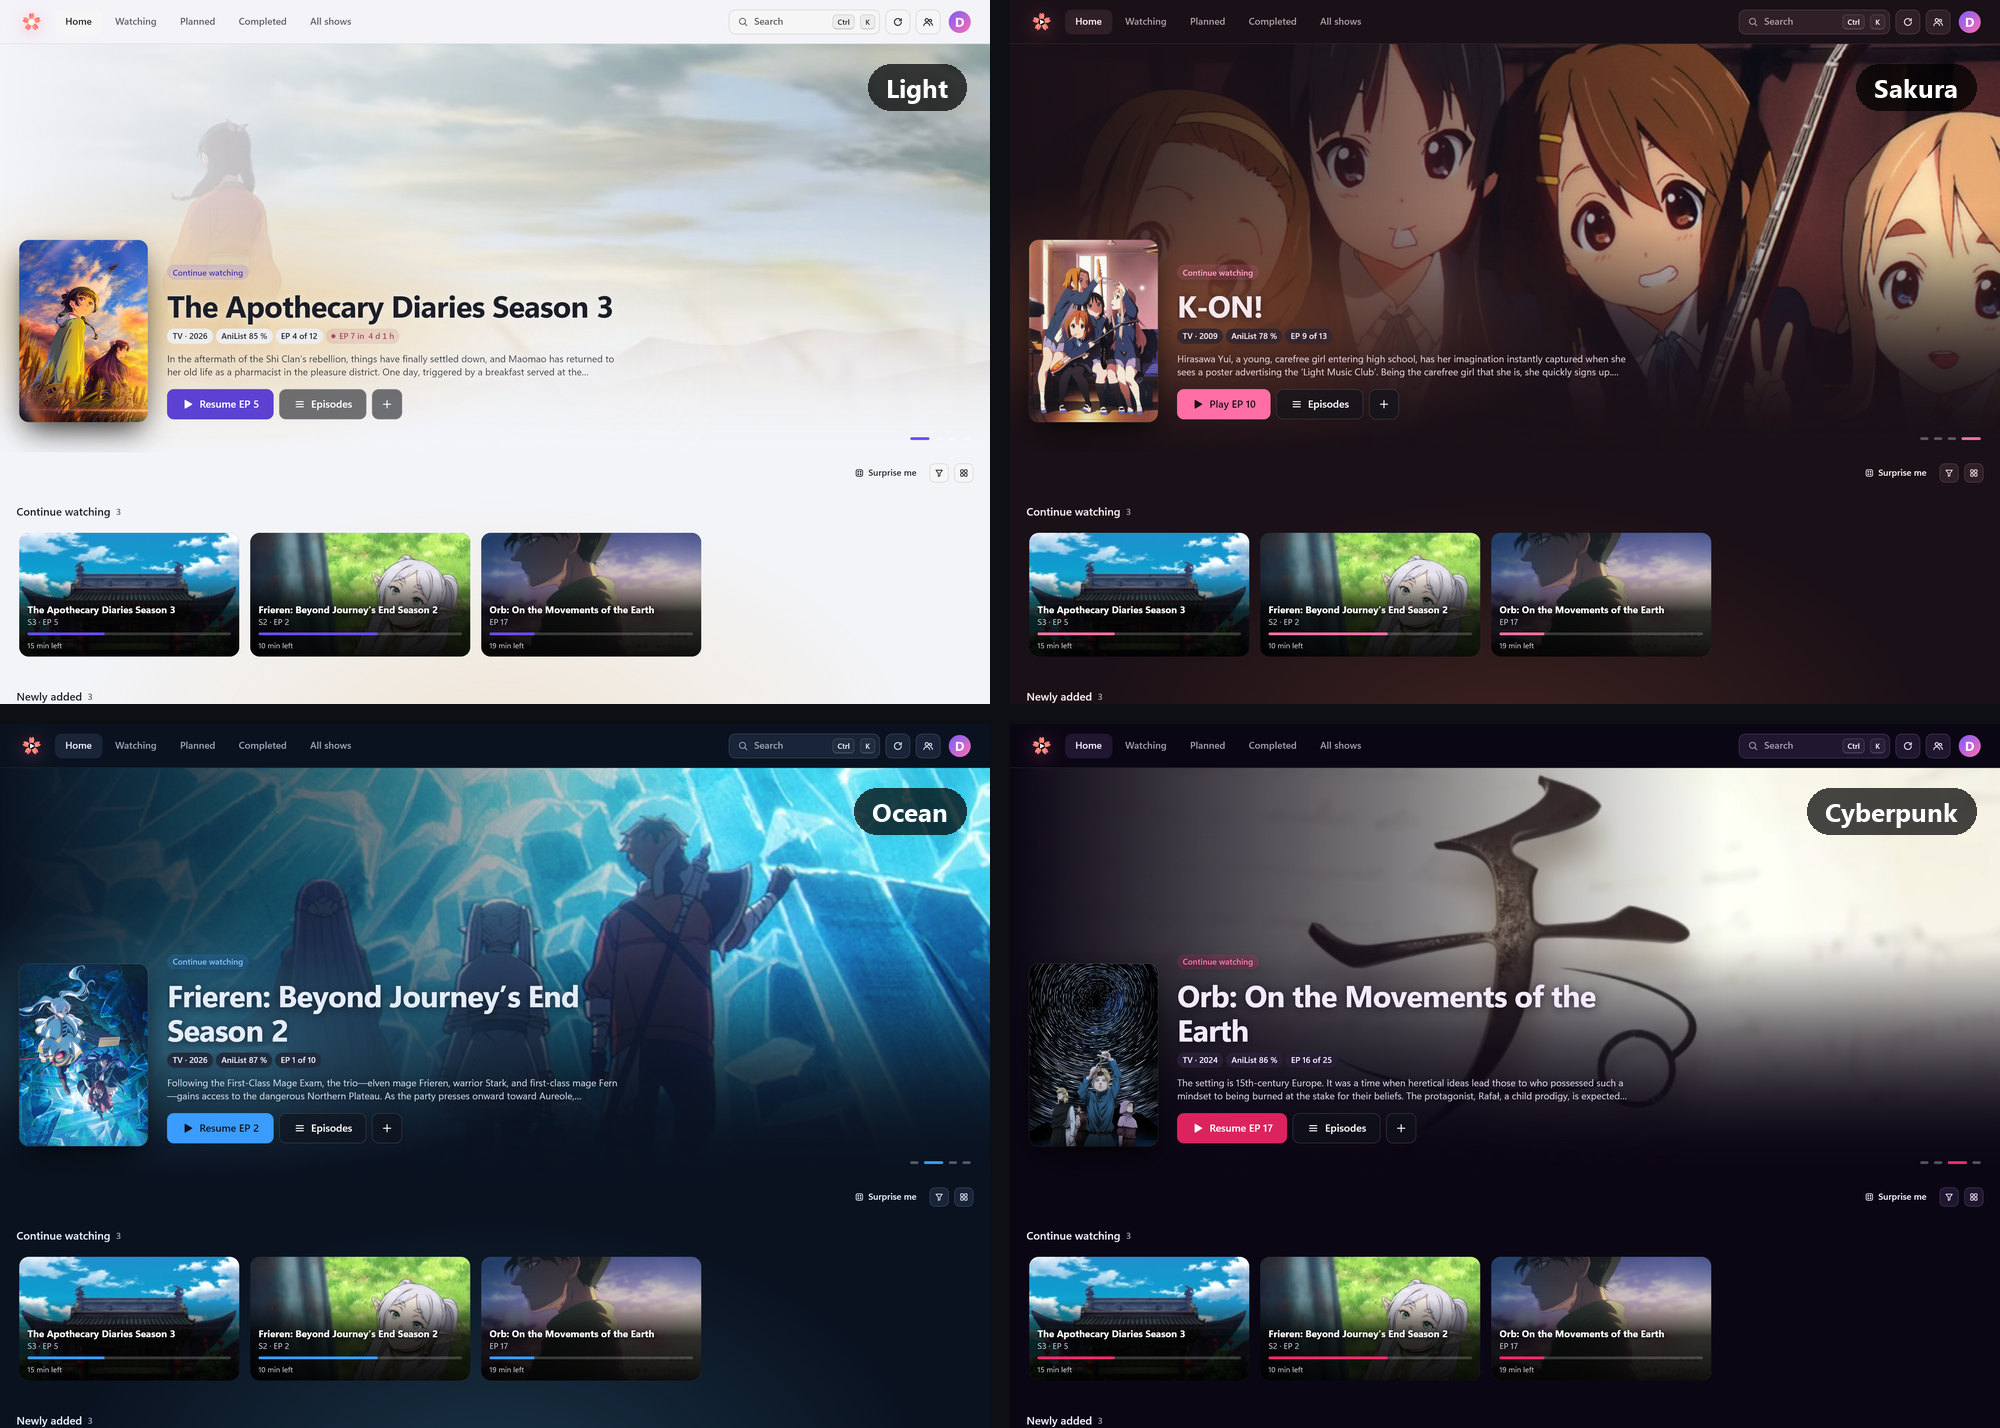
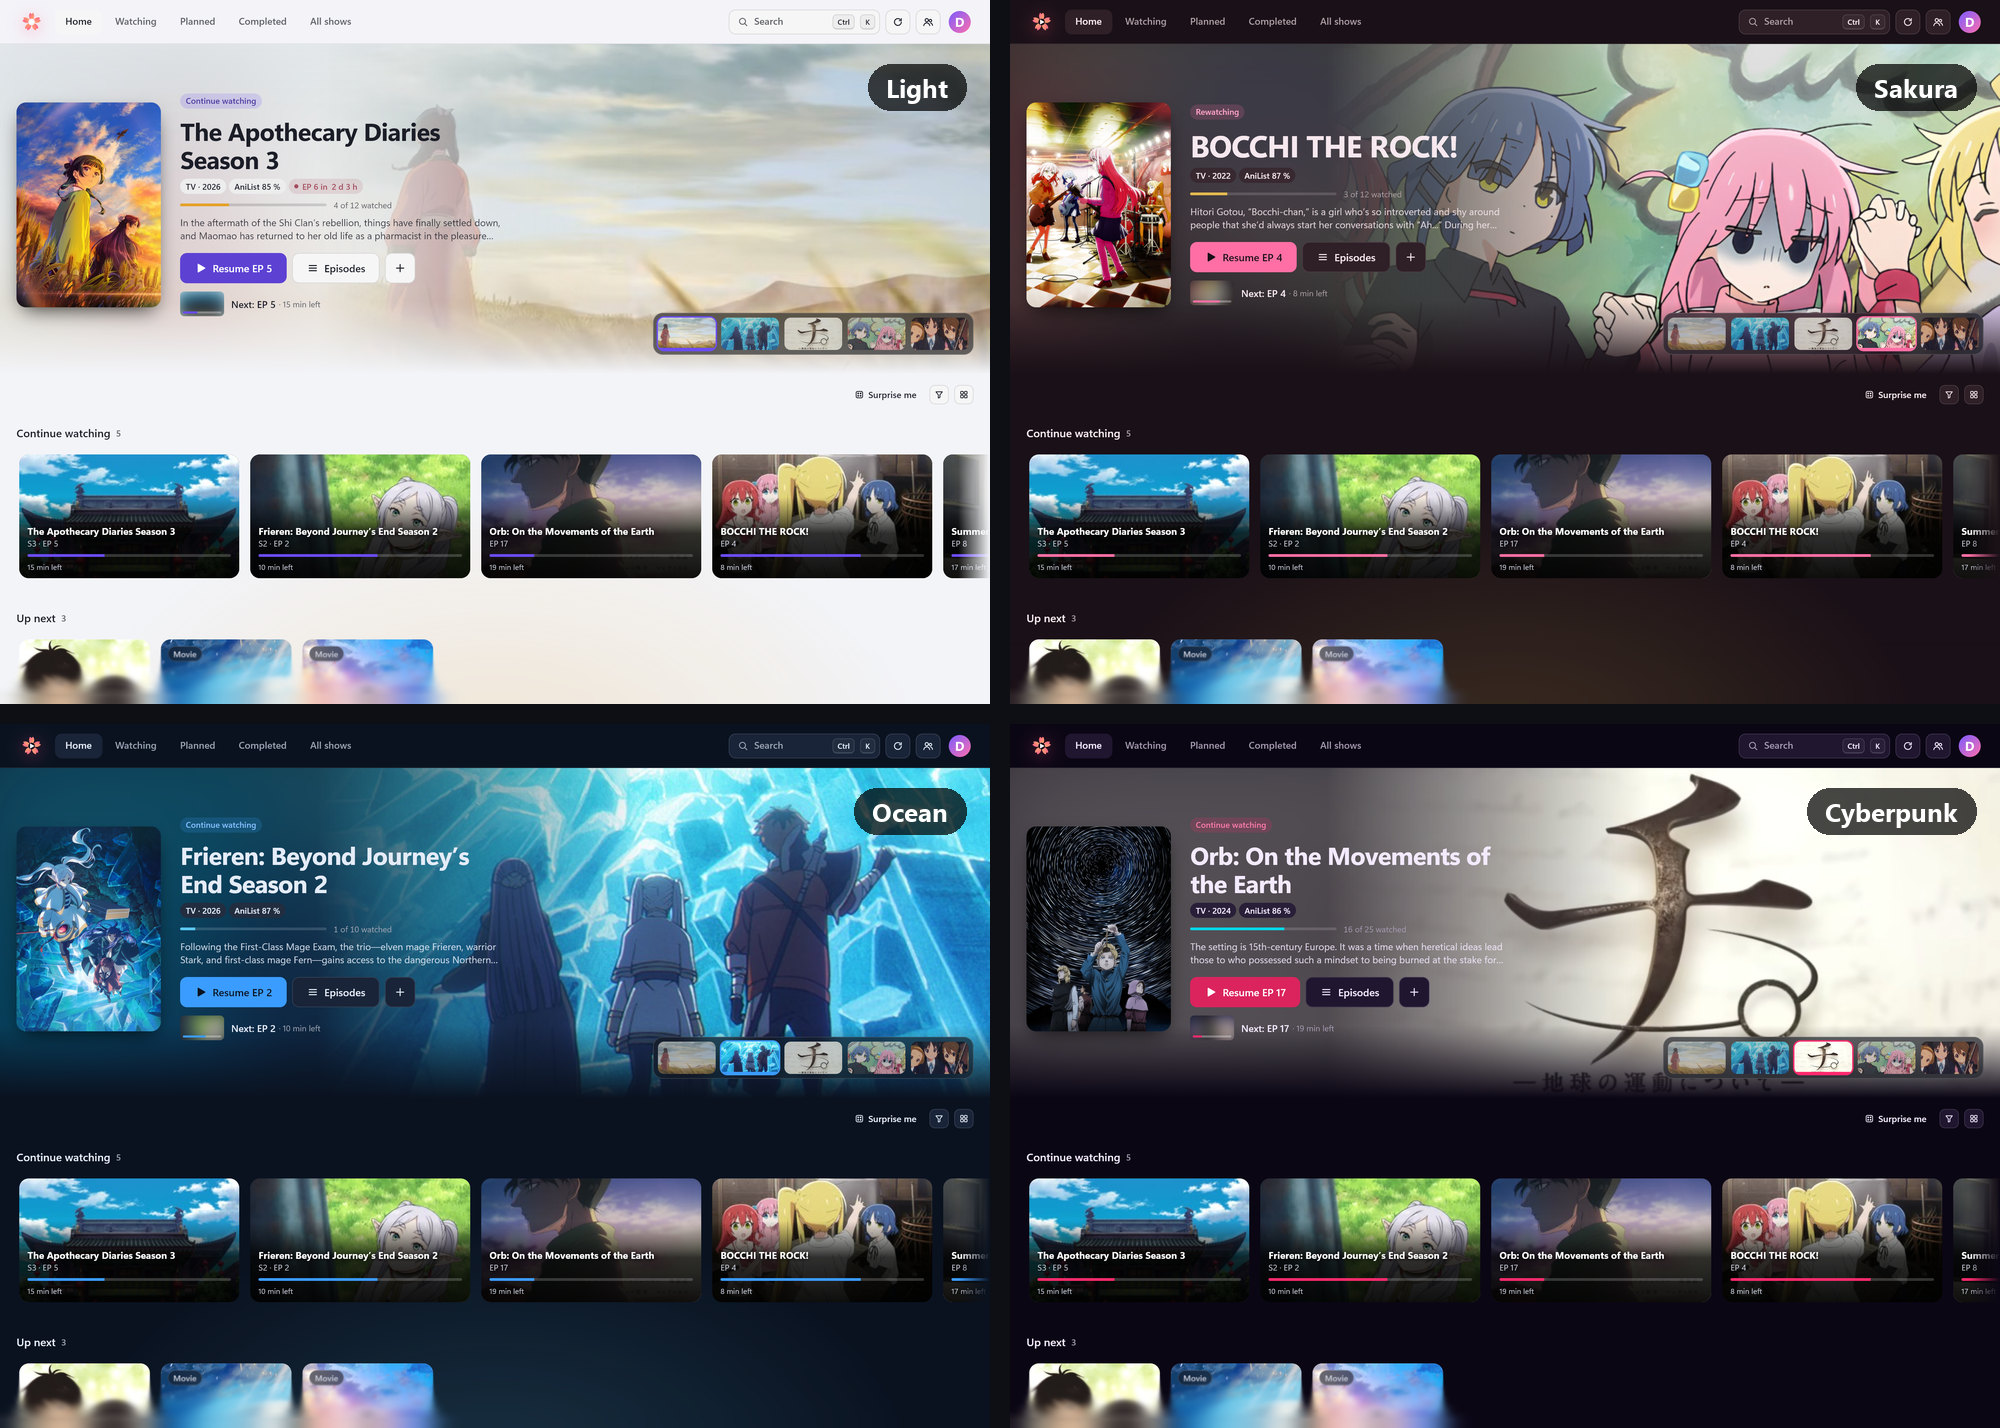
2.1.0: new screenshots, cursors and rows on Home
The five pictures taken again from the same demo library (the new banner with its thumbnails, season bar and Next line, the
show window, the overview, search and four themes), the library picture's description, Anirari's own cursors among the ways to
make it yours, and how to move a row on Home in Everyday use.

diff --git a/README.md b/README.md
@@ -7,7 +7,7 @@ list kept up to date as you watch. It runs on your own PC, in its own window.
 
 This repository holds the releases; what changed in each version is in its [release notes](../../releases).
 
-![Anirari's library: Home with the banner of a show you are watching (The Apothecary Diaries Season 3) with Resume, Episodes and +, Surprise me, the filter and view buttons, and the Continue watching row](screenshots/library.jpg)
+![Anirari's library: Home with the banner of a show you are watching (The Apothecary Diaries Season 3): its cover, 4 of 12 watched, Resume, Episodes and +, the next episode with 15 min left, and thumbnails of the other shows in the banner; below it Continue watching and Up next](screenshots/library.jpg)
 
 ## What it does
 
@@ -28,7 +28,8 @@ This repository holds the releases; what changed in each version is in its [rele
 - **Your AniList list in step**: progress, status and score. Changes made while you are offline are kept and sent once AniList can be
   reached, and every change can be undone.
 - **Make it yours**: 10 themes, a theme builder (poster colours, ambient glow, background gradients), your own CSS (saved as profiles),
-  which lists the header shows and in what order, card sizes, Reduce motion, optional sound effects.
+  which lists the header shows and in what order, card sizes, Anirari's own cursors in four sizes (or your Windows ones), Reduce motion,
+  optional sound effects.
 - Optional: **Discord** status, **Windows notifications** for new episodes, your **friends' activity** from AniList.
 - **Backups** of everything that matters (settings, match fixes, resume points, watch history, Up next) - automatic, every week unless you
   choose otherwise - and a diagnostics page for when something is off.
@@ -116,6 +117,7 @@ Network).
 | **Ctrl+K** or **/** | Search shows, actions and settings |
 | **?** | Every keyboard shortcut |
 | **Arrow keys** | Move between cards and rows once one has focus (Tab, or a click), up to the banner, and between episodes in a show's window |
+| A row on Home | Its arrows, dragging it with the mouse, **Shift + wheel** or a sideways swipe move it (the plain wheel scrolls the page); **Show all** at its end opens the whole list |
 | **Refresh** | Look for new files and sync with AniList. Anirari never syncs by itself, unless you turn on **Sync with AniList when the app starts** |
 | An episode's **⋯** menu: **Mark** / **Mark up to here** / **Unmark** | Change your AniList progress by hand (undo in the message that follows) |
 | **Fix match** | When a show is matched to the wrong AniList entry |
